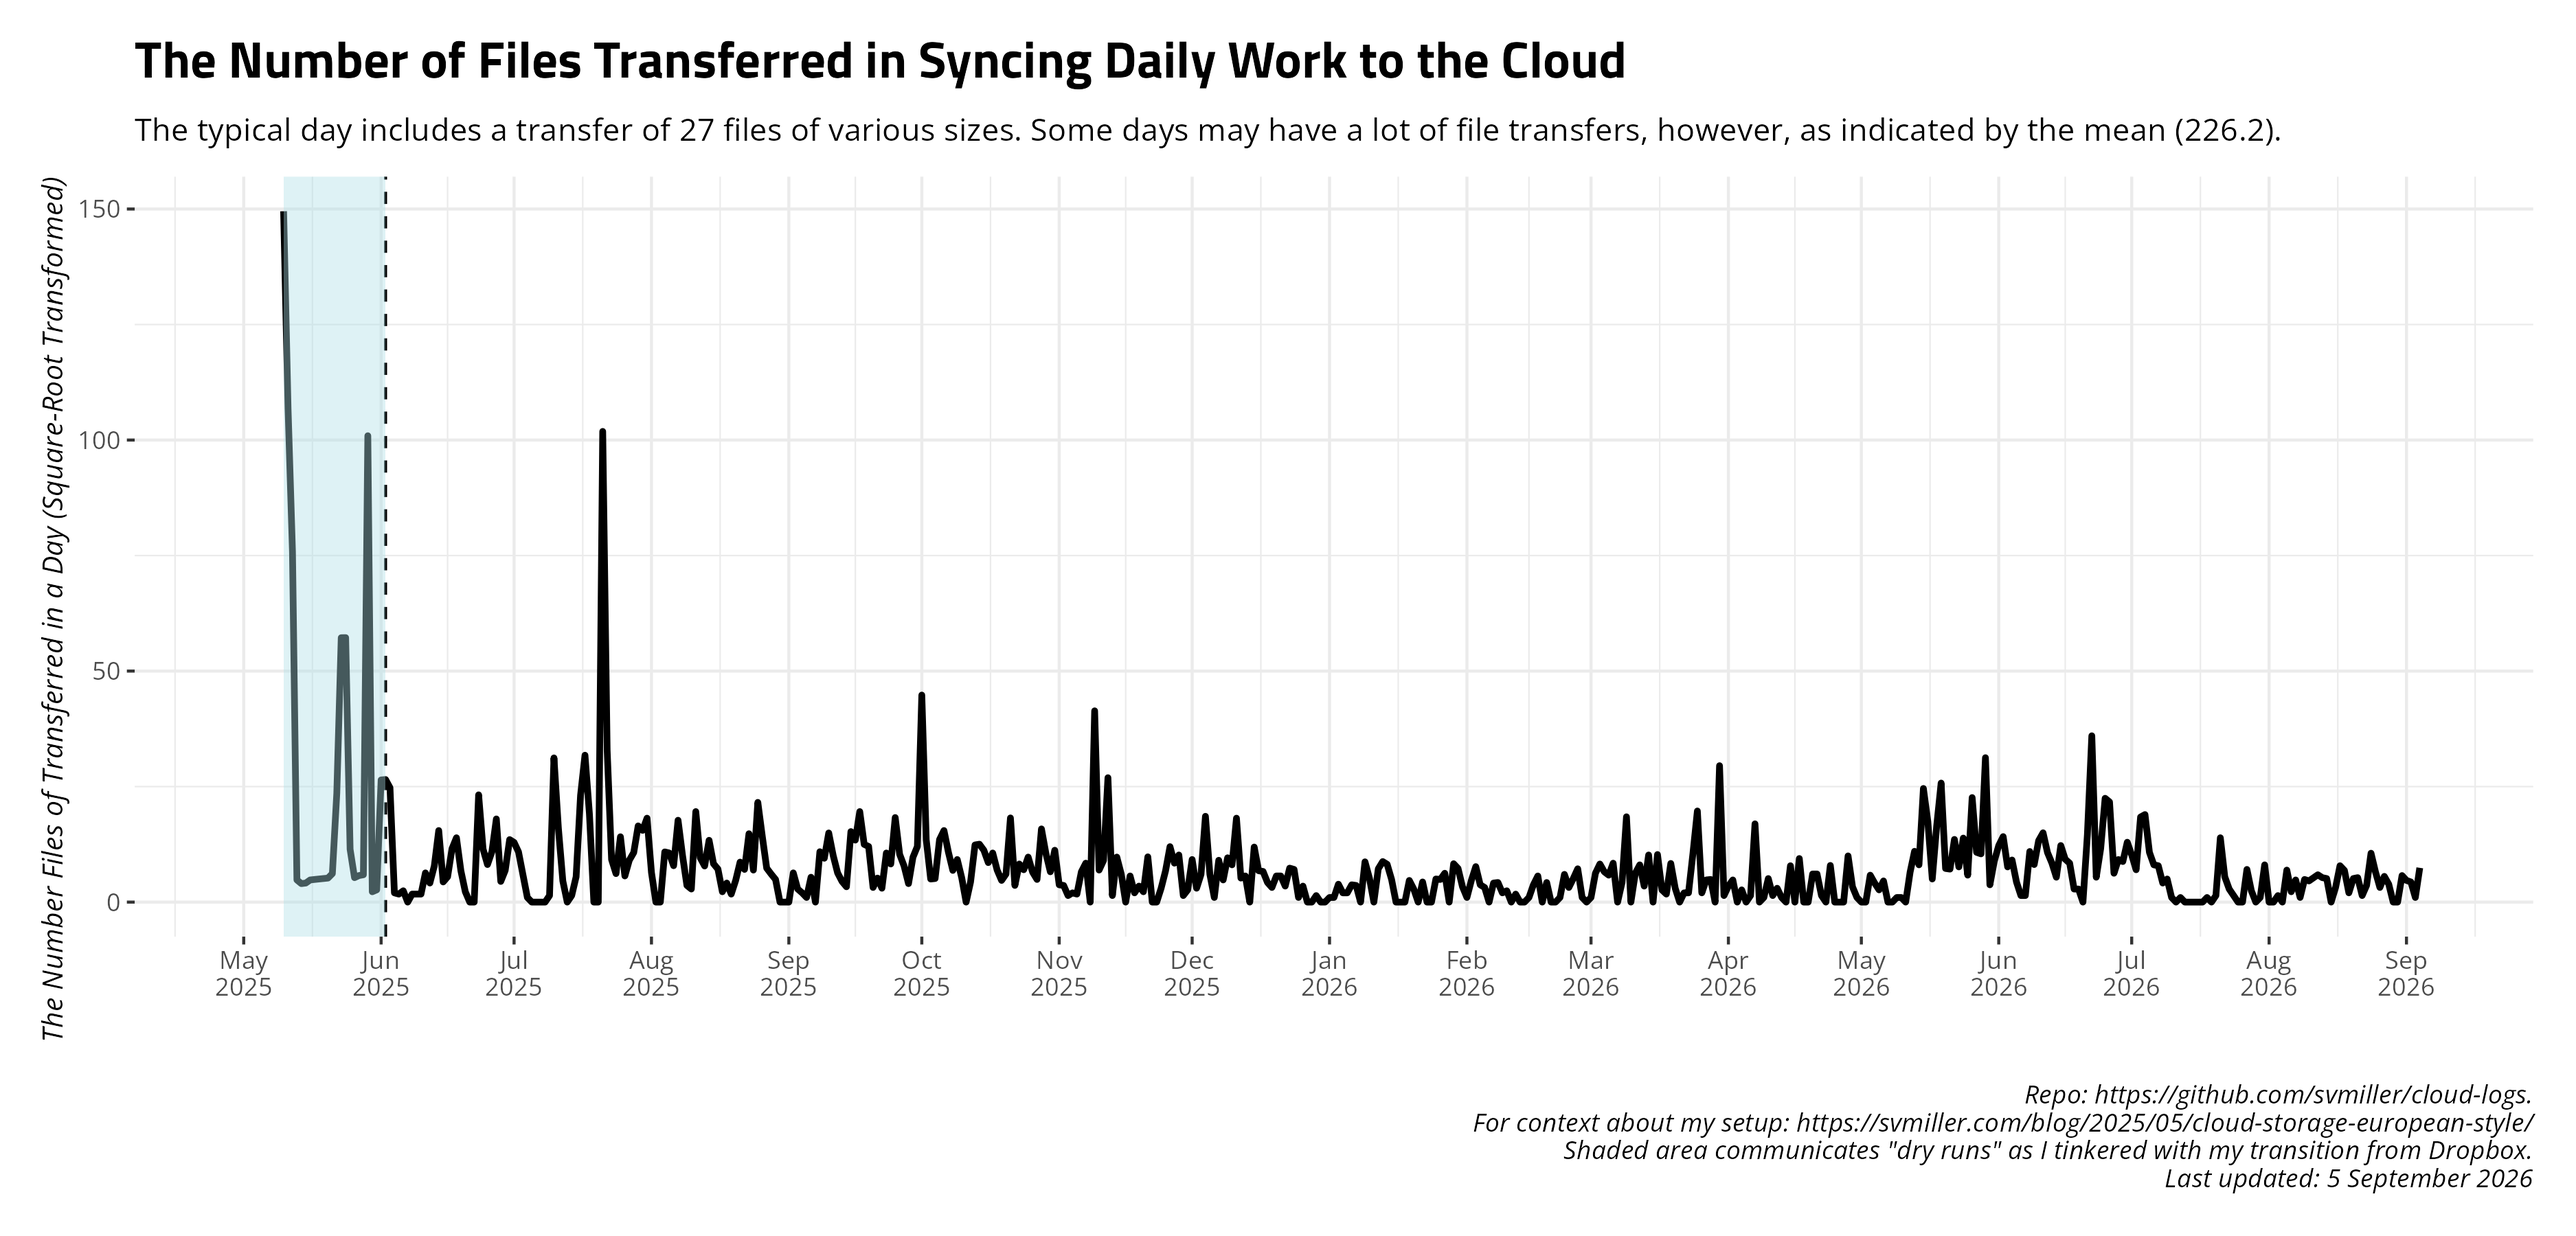
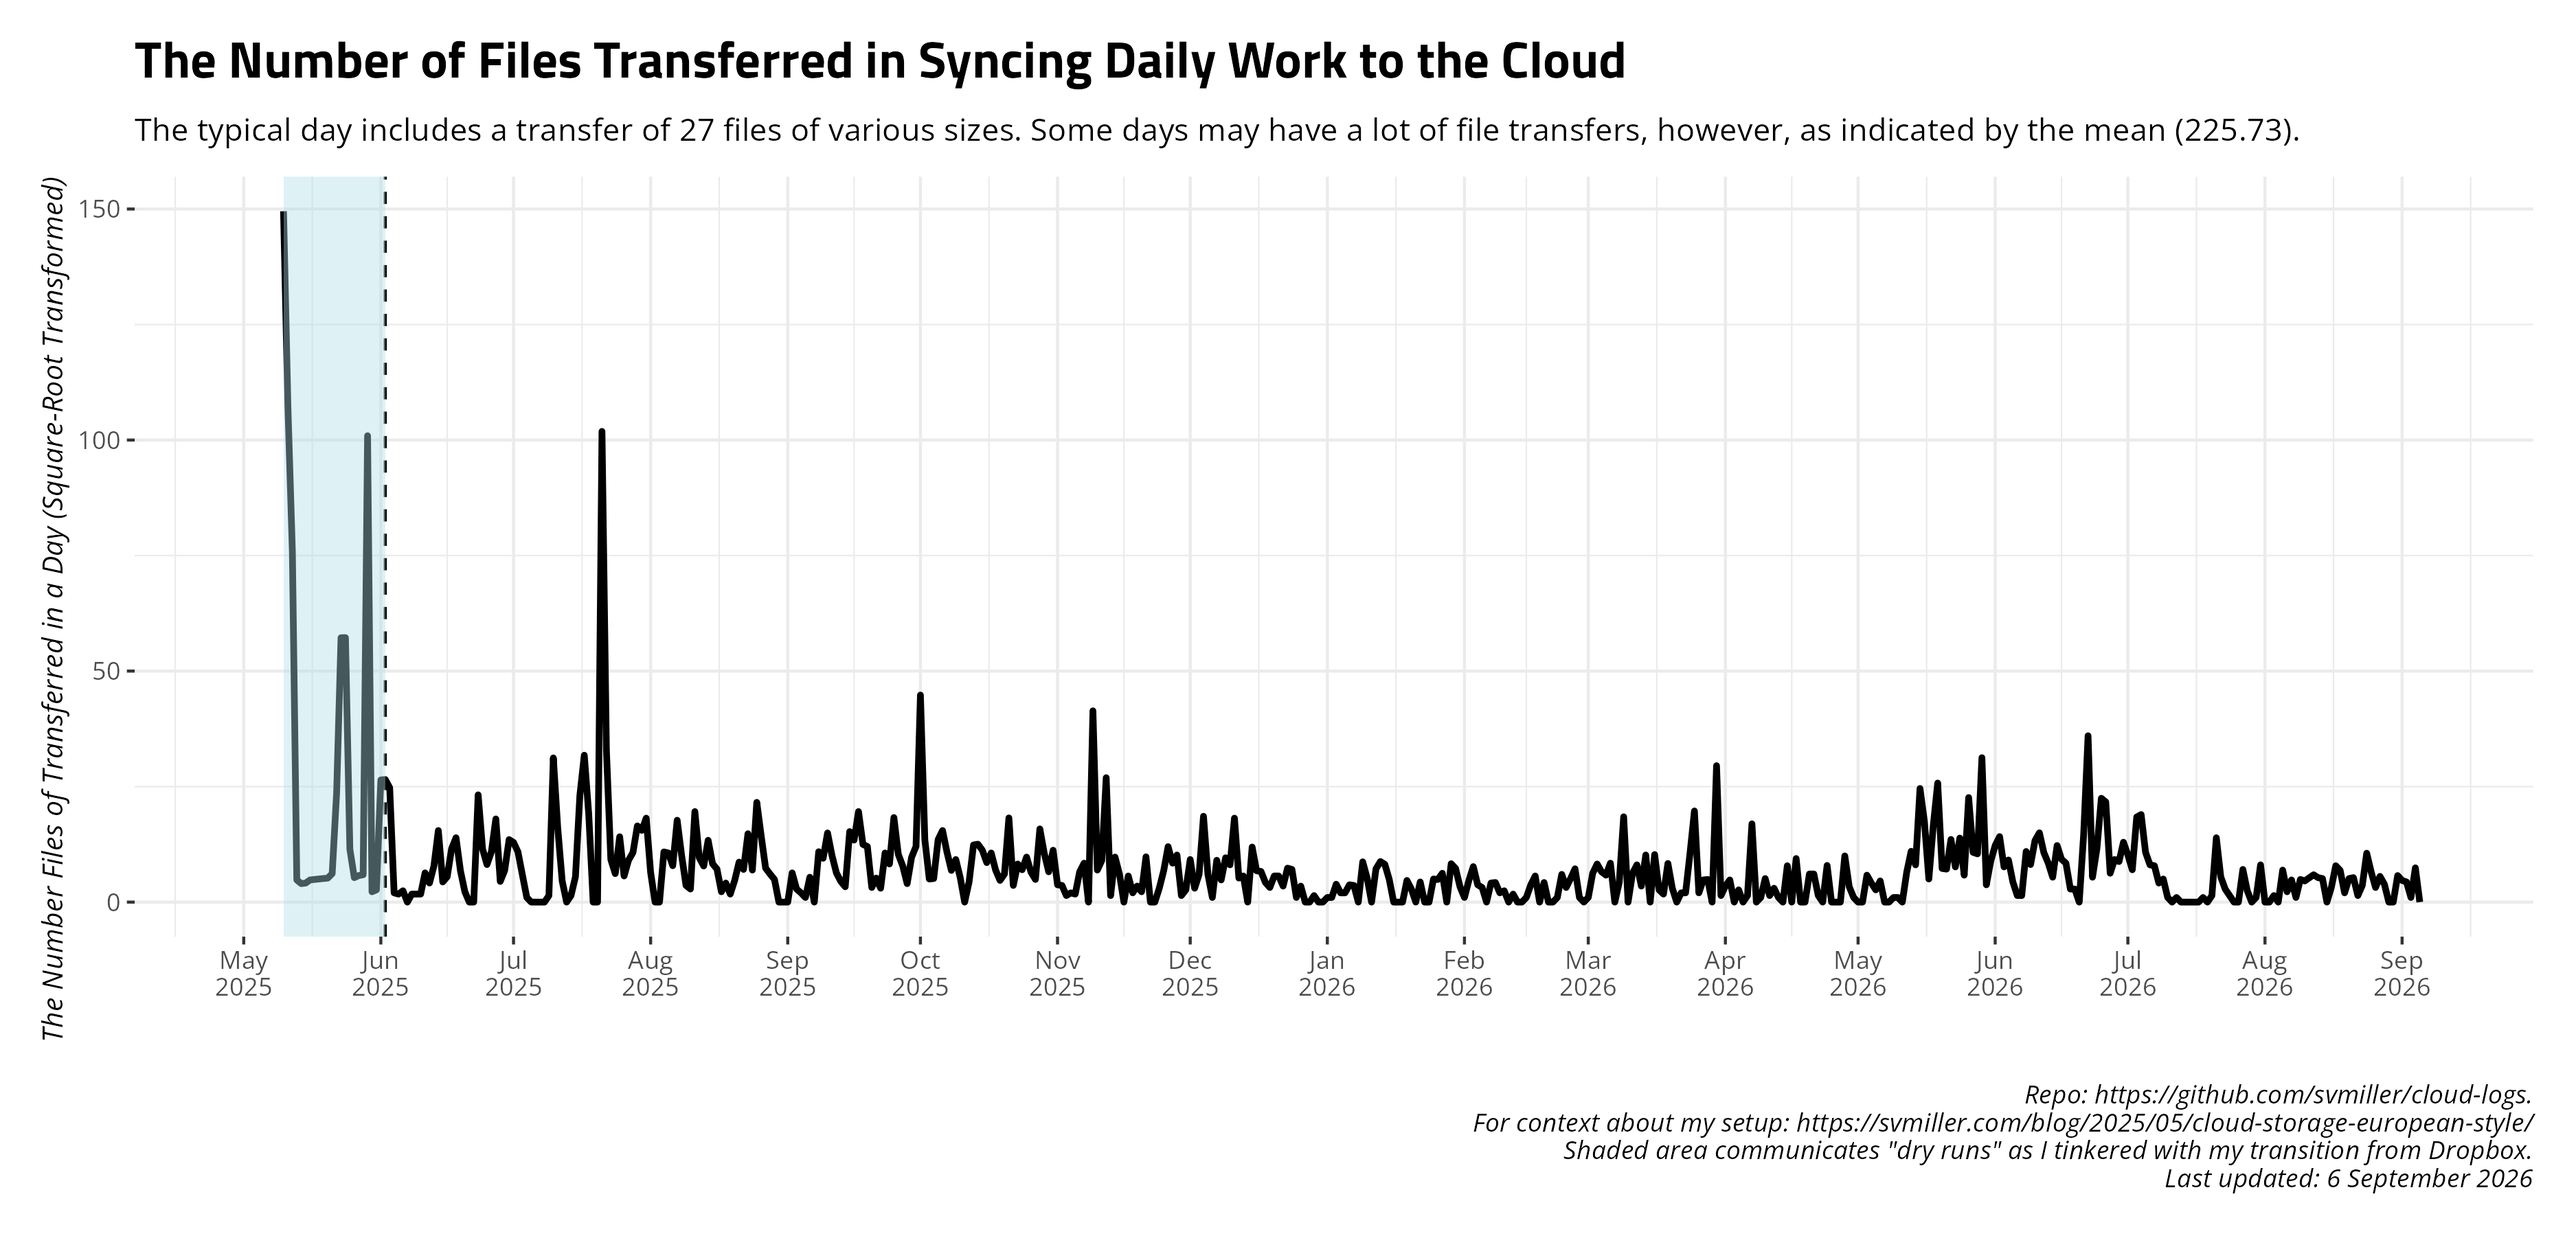
Date: 2026-09-06 09:00:34. Hi mom!

diff --git a/README.md b/README.md
@@ -27,17 +27,17 @@ and uploads to Github.
     #> # A tibble: 14 × 4
     #>    date       ftransfer stransfer   elapsed   
     #>    <date>         <dbl> <chr>       <chr>     
-    #>  1 2026-08-22         2 6.725 KiB   1h3m53.0s 
-    #>  2 2026-08-23        13 2.825 MiB   7m21.9s   
-    #>  3 2026-08-24       112 19.678 MiB  1h39m50.5s
-    #>  4 2026-08-25        43 704.125 KiB 19m45.7s  
-    #>  5 2026-08-26        10 38.500 KiB  11m21.6s  
-    #>  6 2026-08-27        31 697.618 KiB 29m59.2s  
-    #>  7 2026-08-28        15 43.093 MiB  13m43.3s  
-    #>  8 2026-08-29         0 <NA>        11m27.3s  
-    #>  9 2026-08-30         0 <NA>        15m27.8s  
-    #> 10 2026-08-31        33 171.129 KiB 27m17.9s  
-    #> 11 2026-09-01        22 376.333 KiB 8m41.6s   
-    #> 12 2026-09-02        19 56.660 MiB  21m24.9s  
-    #> 13 2026-09-03         1 23.351 KiB  17m3.0s   
-    #> 14 2026-09-04        55 107.209 MiB 5m12.1s
+    #>  1 2026-08-23        13 2.825 MiB   7m21.9s   
+    #>  2 2026-08-24       112 19.678 MiB  1h39m50.5s
+    #>  3 2026-08-25        43 704.125 KiB 19m45.7s  
+    #>  4 2026-08-26        10 38.500 KiB  11m21.6s  
+    #>  5 2026-08-27        31 697.618 KiB 29m59.2s  
+    #>  6 2026-08-28        15 43.093 MiB  13m43.3s  
+    #>  7 2026-08-29         0 <NA>        11m27.3s  
+    #>  8 2026-08-30         0 <NA>        15m27.8s  
+    #>  9 2026-08-31        33 171.129 KiB 27m17.9s  
+    #> 10 2026-09-01        22 376.333 KiB 8m41.6s   
+    #> 11 2026-09-02        19 56.660 MiB  21m24.9s  
+    #> 12 2026-09-03         1 23.351 KiB  17m3.0s   
+    #> 13 2026-09-04        55 107.209 MiB 5m12.1s   
+    #> 14 2026-09-05         0 <NA>        8m2.0s
